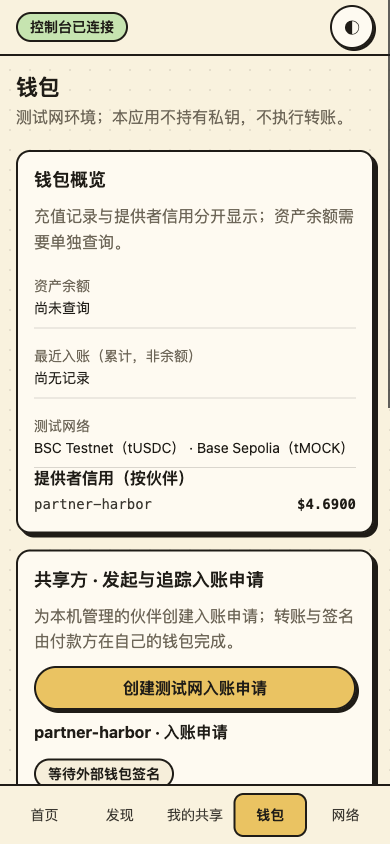
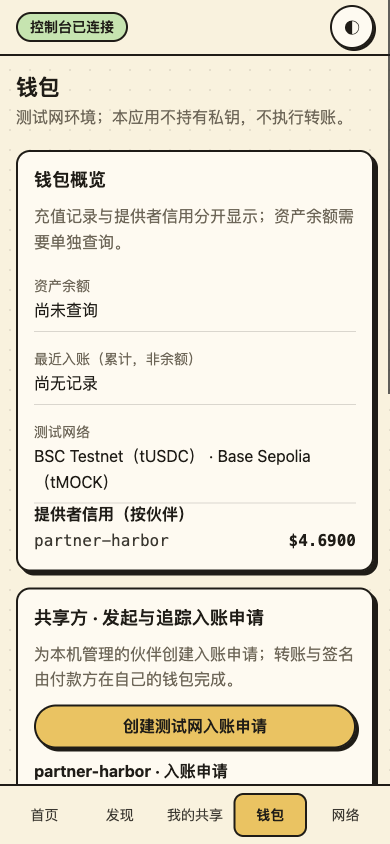
fix(console): behaviour tests for the shell, 16px data text, no peer-card primaries
- add app.test.js: a mocked browser plus mocked HTTP drives the real module and
  asserts the request sequence. A missing join-network action sends exactly one
  request and never configure; the same page sends one request once the backend
  has it and then renders home.
- peer cards on 发现 use a secondary 选择模型并申请; the single primary lives in
  the request dialog, so several visible peers never produce several primaries.
- data values (.facts dd, credit list) are 16px; 14px stays for labels, status
  pills, timestamps and technical details.
- refresh committed fixture screenshots and document the fixes.

diff --git a/plugin/console/app.test.js b/plugin/console/app.test.js
@@ -1,0 +1,172 @@
+import { afterEach, describe, expect, test } from "bun:test";
+
+/**
+ * Behavioural test for the shell: a mocked browser (generic DOM records, real
+ * module listeners) plus a mocked HTTP client. These assertions are about the
+ * request sequence the page actually sends, not about its source text.
+ */
+class Node {
+  constructor(tag = "div") {
+    this.tagName = tag.toUpperCase();
+    this.children = [];
+    this.handlers = {};
+    this.attributes = {};
+    this.dataset = {};
+    this.className = "";
+    this.value = "";
+    this.checked = false;
+    this.hidden = false;
+    this.disabled = false;
+    this.open = false;
+    this._text = "";
+    this.classList = {
+      toggle: (name, on) => { const set = new Set(this.className.split(" ").filter(Boolean)); if (on) set.add(name); else set.delete(name); this.className = [...set].join(" "); },
+      add: (name) => { if (!this.className.split(" ").includes(name)) this.className = `${this.className} ${name}`.trim(); },
+      remove: (name) => { this.className = this.className.split(" ").filter((part) => part !== name).join(" "); },
+      contains: (name) => this.className.split(" ").includes(name),
+    };
+  }
+  set textContent(value) { this._text = String(value); this.children = []; }
+  get textContent() { return this._text + this.children.map((node) => node.textContent || "").join(""); }
+  append(...nodes) { for (const node of nodes) { node.parentElement = this; this.children.push(node); } }
+  prepend(...nodes) { for (const node of nodes) { node.parentElement = this; this.children.unshift(node); } }
+  replaceChildren(...nodes) { this._text = ""; this.children = nodes; for (const node of nodes) node.parentElement = this; }
+  remove() {}
+  setAttribute(key, value) { this.attributes[key] = String(value); }
+  getAttribute(key) { return this.attributes[key] ?? null; }
+  removeAttribute(key) { delete this.attributes[key]; }
+  hasAttribute(key) { return key in this.attributes; }
+  addEventListener(event, handler) { (this.handlers[event] ||= []).push(handler); }
+  async emit(event, payload = { preventDefault() {} }) { for (const handler of this.handlers[event] || []) await handler(payload); }
+  querySelectorAll(selector) {
+    const parts = selector.split(",").map((part) => part.trim()).filter(Boolean);
+    const matches = (node) => parts.some((part) => node.tagName === part.toUpperCase() || (part.includes("[") && part.replace(/\[.*\]/, "").toUpperCase() === node.tagName));
+    return this.descendants().filter(matches);
+  }
+  descendants() { return this.children.flatMap((child) => [child, ...child.descendants()]); }
+  focus() {}
+  showModal() { this.open = true; }
+  close() { this.open = false; }
+  reportValidity() { return true; }
+  reset() { for (const node of this.descendants()) if (node.tagName === "INPUT" || node.tagName === "TEXTAREA") { node.value = ""; node.checked = false; } }
+  click() { return this.emit("click"); }
+}
+
+function browser() {
+  const previous = { document: globalThis.document, window: globalThis.window };
+  const nodes = new Map();
+  const body = new Node("body");
+  const documentElement = new Node("html");
+  const document = {
+    body,
+    documentElement,
+    getElementById: (id) => { if (!nodes.has(id)) nodes.set(id, new Node(id.startsWith("nav-") ? "button" : "div")); return nodes.get(id); },
+    createElement: (tag) => new Node(tag),
+    querySelector: () => null,
+    querySelectorAll: () => [],
+    addEventListener() {},
+  };
+  const windowHandlers = {};
+  const window = {
+    location: { hash: "", pathname: "/", search: "" },
+    history: { replaceState() {} },
+    matchMedia: () => ({ matches: false }),
+    localStorage: { getItem: () => null, setItem() {} },
+    scrollTo() {},
+    addEventListener: (event, handler) => { (windowHandlers[event] ||= []).push(handler); },
+    emit: async (event, payload) => { for (const handler of windowHandlers[event] || []) await handler(payload); },
+  };
+  globalThis.document = document;
+  globalThis.window = window;
+  return { document, window, body, nodes, restore() { globalThis.document = previous.document; globalThis.window = previous.window; } };
+}
+
+const unconfigured = () => ({
+  schema: "ohmyaihub/console/1", at: "2026-10-31T00:00:00.000Z", configured: false,
+  status: { config: { catalog: {}, share: { models: [] } }, easytier: {}, providers: [], consumers: [], catalog: { enabled: false, peers: [] }, readiness: { state: "unknown", reasons: [] }, checks: [] },
+  workflows: { requests: [] }, shareCandidates: null,
+  wallet: { availability: "uninitialized", registry: { networks: [], assets: [] }, receiving: [], intents: [], intentOperations: [], anomalies: [], view: { chains: [], consumers: [], deposits: [], alerts: [] } },
+});
+const configured = () => {
+  const state = unconfigured();
+  state.configured = true;
+  state.status.config = { networkName: "studio-ai", hostname: "node-1", peers: ["tcp://198.51.100.7:11010"], sharingEnabled: false, consumingEnabled: true, catalog: { enabled: false } };
+  state.status.network = { state: "online", summary: "已连接 0 个其他节点", neighbors: [], ports: [], thisNode: { hostname: "node-1", virtualIpv4: "10.126.126.1", networkName: "studio-ai" }, core: { running: true, version: "2.6.4" }, evidence: { readAt: "2026-10-31T00:00:00.000Z" } };
+  return state;
+};
+
+/** Records every HTTP call and answers with a scripted response per path. */
+function http(routes) {
+  const calls = [];
+  const fetch = async (path, options = {}) => {
+    calls.push({ path, method: options.method || "GET", body: options.body ? JSON.parse(options.body) : null });
+    const route = routes(path, options);
+    const status = route.status ?? 200;
+    return { status, ok: status >= 200 && status < 300, json: async () => route.json };
+  };
+  return { fetch, calls };
+}
+
+let actionStatus = 404;
+
+async function mount(state) {
+  const env = browser();
+  let current = state;
+  const routes = (path) => {
+    if (path === "/ui/session") return { json: { csrf: "c".repeat(32), instance: "test", expiresAt: "2099-01-01T00:00:00.000Z" } };
+    if (path === "/ui/api/state") return { json: current };
+    if (path.startsWith("/ui/api/action/")) {
+      if (actionStatus !== 200) return { status: actionStatus, json: { error: "action_not_allowed" } };
+      current = configured();
+      return { json: { result: current } };
+    }
+    return { status: 404, json: { error: "not_found" } };
+  };
+  const server = http(routes);
+  globalThis.fetch = server.fetch;
+  await import(new URL("./app.js", import.meta.url).href);
+  // Let the initial session + first state read finish.
+  for (let i = 0; i < 30; i++) await new Promise((resolve) => setTimeout(resolve, 0));
+  return { ...env, ...server, nodes: env.nodes };
+}
+
+const flush = async () => { for (let i = 0; i < 25; i++) await new Promise((resolve) => setTimeout(resolve, 0)); };
+const actions = (world) => world.calls.filter((call) => call.path.startsWith("/ui/api/action/")).map((call) => call.path.slice("/ui/api/action/".length));
+
+test("three-field connect is atomic: one join-network, no configure fallback, then a real render", async () => {
+  actionStatus = 404;
+  const world = await mount(unconfigured());
+  try {
+    world.nodes.get("network-name").value = "studio-ai";
+    world.nodes.get("network-secret").value = "correct-horse-battery";
+    world.nodes.get("network-peers").value = "tcp://198.51.100.7:11010";
+    await world.nodes.get("settings-form").emit("submit");
+    await flush();
+    expect(actions(world)).toEqual(["join-network"]);
+    expect(world.calls.find((call) => call.path === "/ui/api/action/join-network")?.body).toEqual({
+      networkName: "studio-ai",
+      networkSecret: "correct-horse-battery",
+      initialNode: "tcp://198.51.100.7:11010",
+    });
+    expect(world.nodes.get("form-error").textContent).toContain("更新 Magpie");
+    expect(world.nodes.get("form-error").textContent).toContain("没有修改任何设置");
+    expect(world.nodes.get("network-secret").value).toBe("");
+
+    // The same page, once the backend has the action: one write, then home.
+    actionStatus = 200;
+    world.nodes.get("network-name").value = "studio-ai";
+    world.nodes.get("network-secret").value = "correct-horse-battery";
+    await world.nodes.get("settings-form").emit("submit");
+    await flush();
+    // The extra read is automatic model detection for the home page.
+    expect(actions(world)).toEqual(["join-network", "join-network", "share-candidates"]);
+    expect(world.calls.filter((call) => call.path.includes("configure"))).toHaveLength(0);
+    expect(world.nodes.get("overview").hidden).toBe(false);
+    expect(world.nodes.get("settings-panel").hidden).toBe(true);
+    expect(world.nodes.get("nav-home").attributes["aria-current"]).toBe("page");
+    expect(world.nodes.get("home-network").textContent).toBe("已连接");
+  } finally {
+    await world.window.emit("pagehide");
+    world.restore();
+  }
+});

diff --git a/plugin/console/style.css b/plugin/console/style.css
@@ -265,7 +265,7 @@ section.card + section.card { margin-top: var(--space-4); }
 .home-row .status-line { font-size: var(--text-xl); }
 .home-row .text-button { padding-left: 0; }
 .credit-list { list-style: none; margin: var(--space-1) 0 0; padding: 0; width: 100%; display: flex; flex-direction: column; gap: var(--space-1); }
-.credit-list li { display: flex; justify-content: space-between; gap: var(--space-3); font-size: var(--text-sm); color: var(--body); font-family: var(--font-mono); }
+.credit-list li { display: flex; justify-content: space-between; gap: var(--space-3); font-size: var(--text-base); color: var(--body); font-family: var(--font-mono); }
 .credit-list strong { font-variant-numeric: tabular-nums; }
 .status-line { font-size: var(--text-xl); font-weight: 700; color: var(--ink); }
 .home-figures { display: flex; flex-direction: column; gap: var(--space-1); width: 100%; margin: 0; }
@@ -449,7 +449,7 @@ input[type="file"],
 .facts { display: grid; grid-template-columns: repeat(2, minmax(0, 1fr)); gap: var(--space-2) var(--space-4); margin: var(--space-3) 0 0; }
 .facts > div { padding: var(--space-2) 0; border-bottom: 1px solid var(--line-soft); }
 .facts dt { color: var(--muted); font-size: var(--text-sm); }
-.facts dd { margin: 0; color: var(--ink); font-family: var(--font-mono); font-size: var(--text-sm); word-break: break-all; }
+.facts dd { margin: 0; color: var(--ink); font-family: var(--font-mono); font-size: var(--text-base); word-break: break-all; }
 
 .peer-list { list-style: none; margin: var(--space-2) 0 0; padding: 0; display: flex; flex-direction: column; gap: var(--space-2); }
 .peer-list li { display: flex; align-items: center; gap: var(--space-3); padding: var(--space-2) 0; border-bottom: 1px solid var(--line-soft); }
@@ -474,7 +474,7 @@ input[type="file"],
 .workflow-empty h3 { margin-bottom: var(--space-1); }
 .workflow-empty p { font-size: var(--text-base); color: var(--muted); }
 .workflow-details { margin-top: var(--space-2); font-size: var(--text-sm); }
-.workflow-details summary { min-height: 36px; display: flex; align-items: center; cursor: pointer; color: var(--accent-text); font-weight: 600; }
+.workflow-details summary { min-height: var(--control-h); display: flex; align-items: center; cursor: pointer; color: var(--accent-text); font-weight: 600; font-size: var(--text-base); }
 .workflow-details > div { display: flex; justify-content: space-between; gap: var(--space-3); padding: var(--space-1) 0; border-bottom: 1px solid var(--line-soft); }
 .workflow-details strong { font-weight: 600; flex: none; }
 .workflow-details span { font-family: var(--font-mono); word-break: break-all; text-align: right; }

diff --git a/plugin/console/providers.test.js b/plugin/console/providers.test.js
@@ -126,6 +126,20 @@ describe("real mounted workflow handlers", () => {
     }
   });
 
+  test("several peers never put more than one primary action on the catalogue screen", async () => {
+    const state = baseState();
+    state.status.catalog.peers = [structuredClone(peer), { ...structuredClone(peer), nodeId: "b".repeat(16), hostname: "伙伴乙", quote: { ...structuredClone(peer.quote), node: { displayName: "伙伴乙" } } }];
+    const r = runtime(state);
+    try {
+      const primaries = all(r.roots["discovery-panel"], "button").filter((node) => String(node.className).split(" ").includes("primary"));
+      expect(primaries).toHaveLength(0);
+      // The single primary lives inside the request dialog.
+      await find(r.roots["discovery-panel"], "button", "选择模型并申请").click(); await flush();
+      const dialogPrimaries = all(r.dialog, "button").filter((node) => String(node.className).split(" ").includes("primary"));
+      expect(dialogPrimaries).toHaveLength(1);
+    } finally { r.cleanup(); }
+  });
+
   test("catalogue next steps are Chinese and raw CLI diagnostics remain in collapsed technical details", () => {
     expect(peerNextStep("unverified")).toContain("核对并接受身份");
     expect(peerNextStep("identity-changed")).toContain("核对新身份");

diff --git a/plugin/console/providers.js b/plugin/console/providers.js
@@ -262,7 +262,9 @@ export function mountProviders({ client, getState, onState, notice, setBusy, ref
       const actions = el("div", null, "workflow-actions");
       if (acceptance.fingerprint && peer.nodeId && !["verified", "connected"].includes(peer.status)) actions.append(button(peer.status === "identity-changed" ? "核对新身份" : "核对并接受身份", () => trustPeer(peer)));
       if (peer.quote && peer.nodeId) {
-        const request = button("选择模型并申请", () => requestConnection(peer), true);
+        // One screen may show several peers, so the per-card request action is a
+        // contextual secondary action; the only primary on the page is the tab row.
+        const request = button("选择模型并申请", () => requestConnection(peer));
         const connect = button("已有密钥，连接此伙伴", () => connectPeer(peer));
         const allowed = ["verified", "connected"].includes(peer.status) && peer.online;
         request.disabled = !allowed; connect.disabled = !allowed;

diff --git a/docs/phase10-a-ui.md b/docs/phase10-a-ui.md
@@ -35,7 +35,7 @@
 - token：`plugin/console/style.css` 顶部一套浅色 + 一套深色；纸面 `#fbf2dc`、点阵 `radial-gradient` 20px、2px 墨线、单层硬投影（2/3/4/6px，无模糊）、胶囊按钮。
 - 语义色只有三块：薄荷=成功/可用、粉=危险/支出/失败、天蓝=进行中/信息；“颜色 + 墨线”，不发光、不做装饰性用色。
 - 零 Web 字体（`-apple-system / PingFang SC / Noto Sans CJK SC`），无外部请求，CSP 不变。
-- 字号：正文 16px、标题 18/22/28、表格与标签 14px、无 12/13px 正文。
+- 字号：正文与**数据值** 16px、标题 18/22/28；14px 只给字段标签、状态胶囊、时间戳、技术详情等非正文。
 - 触控：按钮、导航、输入统一 44px 最小高度。
 - 交互：按钮按下位移 3px 且投影归零；`focus-visible` 3px 墨色轮廓 + 2px offset；`prefers-reduced-motion` 全量降级。
 - 主题：跟随系统，用户选择写入 `localStorage["aihub-console-theme"]`（**唯一**持久化的值；会话/密钥仍在内存）。
@@ -76,7 +76,7 @@
 ### 4.2 发现 = 伙伴目录 + 我的连接
 
 - 一个页面、两个 Tab（`role=tablist`），`aria-selected` 与面板 `hidden` 同步。
-- 目录卡展示身份状态、模型、价格；危险动作（接受身份、连接）仍需各自勾选。
+- 目录卡展示身份状态、模型、价格；每张卡的“选择模型并申请”是**次操作**，唯一 primary 在申请弹窗里（同屏多个伙伴也不会出现多个主按钮）。危险动作（接受身份、连接）仍需各自勾选。
 - 不再有“使用能力”开关；消费默认开启由服务端负责。
 
 **REPRODUCED（mock）**：点击“我的连接”后 `discovery-panel.hidden=true`、`connections-panel.hidden=false`、`aria-selected=true`。
@@ -138,7 +138,7 @@ bun test ./test/console-api.test.ts ./test/console-security.test.ts \
 
 **REPRODUCED（2026-10-31，Bun 1.4.3）**
 
-- `bun test ./console`：**71 pass / 0 fail**（4 个文件、569 断言）。新增 `shell.test.js` 覆盖：5 项导航、首页 5 块、三字段、端口只读、每页 ≤1 primary、主题持久化边界、会话文案区分、`join-network` 只发三字段、`status.network` 空值纪律、单次分享、钱包诊断拆分。
+- `bun test ./console`：**73 pass / 0 fail**（5 个文件、582 断言）。新增 `app.test.js` 用真实模块监听 + mock HTTP 断言请求序列：`join-network` 404 时只发一次且**不发** `configure`，同一页面在后端可用时只发一次并进入首页。新增 `shell.test.js` 覆盖：5 项导航、首页 5 块、三字段、端口只读、每页 ≤1 primary、主题持久化边界、会话文案区分、`join-network` 只发三字段、`status.network` 空值纪律、单次分享、钱包诊断拆分。
 - 四个 console TS 用例：**55 pass / 3 fail**，失败均为既有时钟固定导致“请求已过期”（P0-3 已知基线问题），与本轮前端改动无关；本轮**未**运行会探测生产 Magpie/RPC 的 `phase8-prompt-journey`、`service` 等重型用例。
 
 ---
@@ -153,7 +153,7 @@ bun run plugin/scripts/console-preview.ts --scenario first-run  --port 61391 &
 ego-browser nodejs < plugin/scripts/console-shots.mjs   # 输出到 /tmp/oma-ui-shots
 ```
 
-仓库内保留 4 张（`docs/phase10-a-ui/`）：首页 1440 浅色、网络 1440 浅色、钱包 390、首次连接 390。完整 19 张在 `/tmp/oma-ui-shots/`：五页 × 浅/深 @1440（10）、五页浅色 @390（5）、分享确认弹窗（1）、首次连接 @1440 与 @390（2）、键盘焦点（1）。
+仓库内保留 5 张（`docs/phase10-a-ui/`）：首页 1440 浅色、发现 1440 浅色、网络 1440 浅色、钱包 390、首次连接 390。完整 19 张在 `/tmp/oma-ui-shots/`：五页 × 浅/深 @1440（10）、五页浅色 @390（5）、分享确认弹窗（1）、首次连接 @1440 与 @390（2）、键盘焦点（1）。
 
 **清理**：预览服务器只监听 `127.0.0.1`，用 `lsof -nP -iTCP:61390 -sTCP:LISTEN` 找到 PID 后 `kill` 即可；未接触用户 Magpie 安装、数据目录或任何真实凭据。
 
